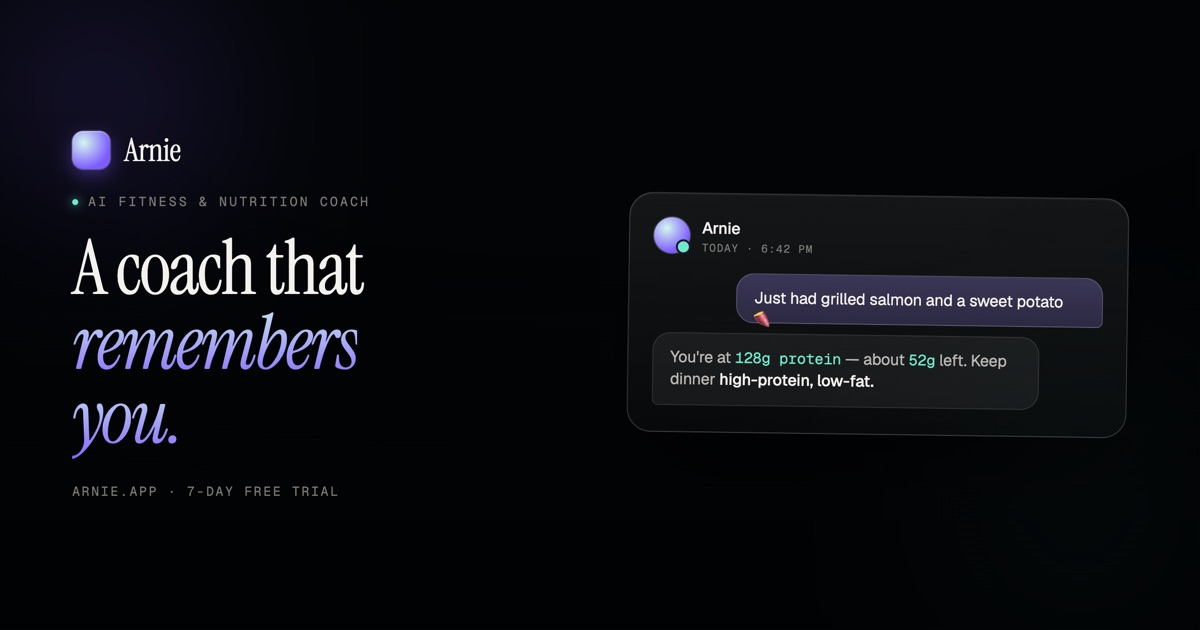
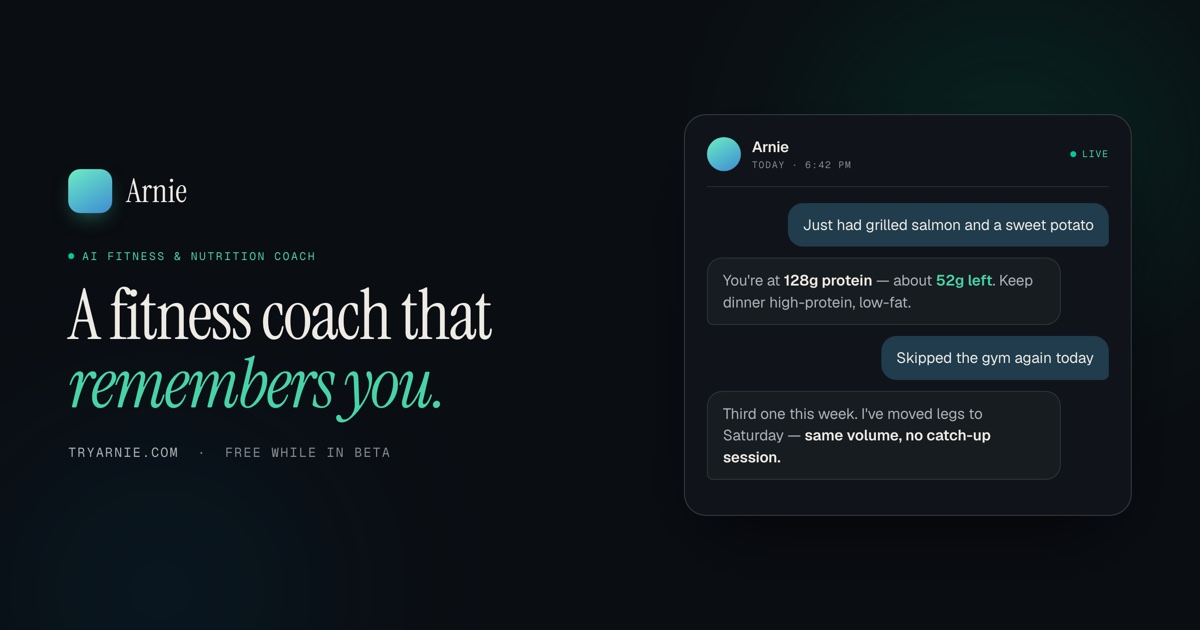
fix(landing): say only what the product actually does
Three claims on the page were writing cheques the codebase does not cash.

The share card — the first thing anyone sees when the link is posted —
advertised "ARNIE.APP · 7-DAY FREE TRIAL". Wrong domain, and a trial the
page itself denies two scrolls later ("Free while in beta · no card, no
commitment"). It was also violet, from a previous brand. Rebuilt in the
current tokens at the correct 1200x630, headline matched to the h1, and the
offer stated the way the page states it. The chat mockup now shows the
plan-reshuffling behaviour the new reel demonstrates, so card and page tell
one story. The old PNG is deleted rather than left orphaned — it asserts a
trial that does not exist, and an unreferenced file is exactly the kind of
thing that gets reused by mistake.

"Connected signal sources" listed Apple Health, Whoop, Oura, Fitbit and
Hume side by side, unqualified. The app's own devices card
(api/templates.py) marks Fitbit and Hume `live:false, label:'Coming soon'`.
Apple Health and Whoop are real providers; Oura is real too — full OAuth
router, API client and token refresh under api/, which is why it looked
absent when only wearables/ was checked. So the three that work keep the
live dot, and the two that do not get a grey dot and the same "soon" label
the product uses. Steps / sleep / weight / recovery were in that list as
well; those are metrics read FROM a source, not sources, and now sit under
their own heading.
[…]

diff --git a/landing/index.html b/landing/index.html
@@ -900,6 +900,19 @@
       border: 1px solid var(--line);
     }
     .ipill::before { content: ""; width: 5px; height: 5px; border-radius: 50%; background: var(--accent-s); }
+    /* The live dot is the whole signal here, so unshipped sources must not
+       carry it — a grey dot plus an explicit tag, matching how the in-app
+       devices card labels these exact two. */
+    .ipill.soon { color: var(--ink-3); }
+    .ipill.soon::before { background: var(--ink-4); }
+    .ipill.soon i {
+      font-style: normal; font-family: var(--mono); font-size: 8px;
+      letter-spacing: 0.1em; text-transform: uppercase; color: var(--ink-3);
+      border: 1px solid var(--line-s); border-radius: 999px; padding: 2px 5px;
+    }
+    /* Metrics are read FROM a source, so no source dot. */
+    .ipill.metric::before { display: none; }
+    .ipill.metric { color: var(--ink-3); }
     .chcard {
       width: 168px; padding: 13px 15px; border-radius: 16px;
       transition: transform 160ms, border-color 200ms;
@@ -1473,11 +1486,22 @@
       <div class="section-tag reveal">Works where you are</div>
       <h2 class="section-title reveal reveal-d1">Start in the <em>iOS beta.</em></h2>
       <p class="section-sub reveal reveal-d2" style="margin:0 auto">Telegram is live too — that's where Android starts today — and iMessage and WhatsApp are next. The same Arnie, the same memory, wherever you text.</p>
+      <!-- Sources are the three with a real sync path (Apple Health and Whoop
+           per the in-app devices card; Oura via its OAuth router + API client).
+           Fitbit and Hume are marked exactly as the app marks them — "coming
+           soon" — instead of sitting unlabelled among the live ones. Steps /
+           sleep / weight / recovery were in this list too, but those are
+           metrics Arnie reads, not places data comes from. -->
       <div class="sig-label reveal reveal-d2">connected signal sources</div>
       <div class="channels-pills reveal reveal-d2">
         <span class="ipill">Apple Health</span><span class="ipill">Whoop</span><span class="ipill">Oura</span>
-        <span class="ipill">Fitbit</span><span class="ipill">Hume</span><span class="ipill">Steps</span>
-        <span class="ipill">Sleep</span><span class="ipill">Weight</span><span class="ipill">Recovery</span>
+        <span class="ipill soon">Fitbit<i>soon</i></span><span class="ipill soon">Hume<i>soon</i></span>
+      </div>
+      <div class="sig-label reveal reveal-d2">what it reads from them</div>
+      <div class="channels-pills reveal reveal-d2">
+        <span class="ipill metric">Steps</span><span class="ipill metric">Sleep</span>
+        <span class="ipill metric">Weight</span><span class="ipill metric">Recovery</span>
+        <span class="ipill metric">Workouts</span>
       </div>
       <div class="channels-grid reveal reveal-d3">
         <a class="chcard primary" id="chcardIos" href="https://testflight.apple.com/join/XAZQ5sSF" target="_blank" rel="noopener">
@@ -1499,14 +1523,20 @@
   <!-- ── PARTNERS — gyms and trainers ── -->
   <section id="partners">
     <div class="section-inner" style="text-align:center">
-      <div class="section-tag reveal">In good company</div>
-      <h2 class="section-title reveal reveal-d1" style="font-size:clamp(30px,4.2vw,46px)">Where you <em>already train.</em></h2>
-      <p class="section-sub reveal reveal-d2" style="margin:0 auto">Arnie is building affiliations with gyms like The Wright Fit, Equinox, 24 Hour Fitness, and Lifetime, and partnering with trainers who want Arnie working with their clients between sessions.</p>
+      <!-- This was a four-name logo wall under "In good company / Where you
+           already train", while the body copy directly beneath it said Arnie
+           was still only "building affiliations" with those gyms. A logo wall
+           reads as a signed relationship no matter what the paragraph says,
+           and they are other people's trademarks. The section's actual job is
+           recruiting trainers, so it now does that on its own merits — every
+           claim below is about Arnie, not about somebody else's brand. -->
+      <div class="section-tag reveal">For coaches &amp; gyms</div>
+      <h2 class="section-title reveal reveal-d1" style="font-size:clamp(30px,4.2vw,46px)">You get two hours. <em>Arnie gets the rest.</em></h2>
+      <p class="section-sub reveal reveal-d2" style="margin:0 auto">Your client trains with you twice a week. The other five days are where plans quietly fall apart. Arnie logs what actually happened and hands you the context at the next session.</p>
       <div class="partner-row reveal reveal-d2">
-        <span class="partner">The Wright Fit</span>
-        <span class="partner">Equinox</span>
-        <span class="partner">24 Hour Fitness</span>
-        <span class="partner">Lifetime</span>
+        <span class="partner">Logging between sessions</span>
+        <span class="partner">Adherence you can see</span>
+        <span class="partner">Context at check-in</span>
       </div>
       <p class="partner-cta reveal reveal-d3">Train clients? <a href="https://testflight.apple.com/join/XAZQ5sSF" target="_blank" rel="noopener">Get them early access →</a></p>
     </div>
